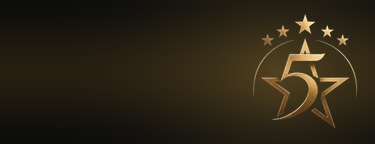
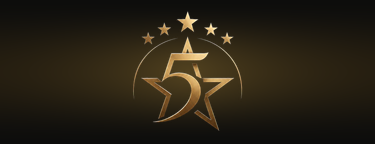
fix(api): keep the pass name off the strip artwork
On a storeCard with a strip image, Wallet draws the primary field over the
strip at display size and puts its label underneath the value -- so the
customer's name rendered enormous, straight across the emblem, with
TREUEKARTE beneath it. The layout is fixed by the format; only the choice of
field is ours.

primaryFields is now empty, so the strip carries the emblem alone, and the
name moves to a secondary field: normal size, below the strip, filling space
that was previously empty. The emblem is centred and slightly larger now that
it has the band to itself.

Also drops the barcode altText, which Wallet printed under the QR and which
repeated a name the card already shows.

The strip's first and last pixel rows must equal backgroundColor exactly or a
seam appears where the image meets the flat card. Centring the glow pushed it
into those rows; it now runs through the same edge envelope as the warmth, and
the generator asserts both rows on every run.

Confirmed on device against a real signed pass before committing.

diff --git a/apps/api/src/services/wallet-pass.service.ts b/apps/api/src/services/wallet-pass.service.ts
@@ -176,10 +176,20 @@ function buildPassJson(
       // once, and repeating it here made the open card look like it had a
       // rendering fault.
       headerFields: [{ key: "membership", value: "MITGLIED" }],
-      primaryFields: [
+
+      // Left empty on purpose. On a storeCard with a strip image, Wallet draws
+      // the primary field *over* the strip at display size and puts its label
+      // underneath the value. A name there is rendered enormous, straight
+      // across the emblem, and no amount of artwork adjustment moves it --
+      // the layout is fixed by the format.
+      //
+      // So the strip carries the emblem alone, and the name moves down to a
+      // secondary field, which renders at a normal size below the strip and
+      // fills space that was otherwise empty.
+      primaryFields: [],
+      secondaryFields: [
         { key: "member", label: "TREUEKARTE", value: displayName },
       ],
-      secondaryFields: [],
       auxiliaryFields: [],
       backFields: [
         {
@@ -209,7 +219,8 @@ function buildPassJson(
         format: "PKBarcodeFormatQR",
         message: `${QR_PREFIX}${customer.id}`,
         messageEncoding: "iso-8859-1",
-        altText: displayName,
+        // No altText. Wallet prints it directly beneath the barcode, which
+        // repeated the name a second time on a card that already shows it.
       },
     ],
   };
